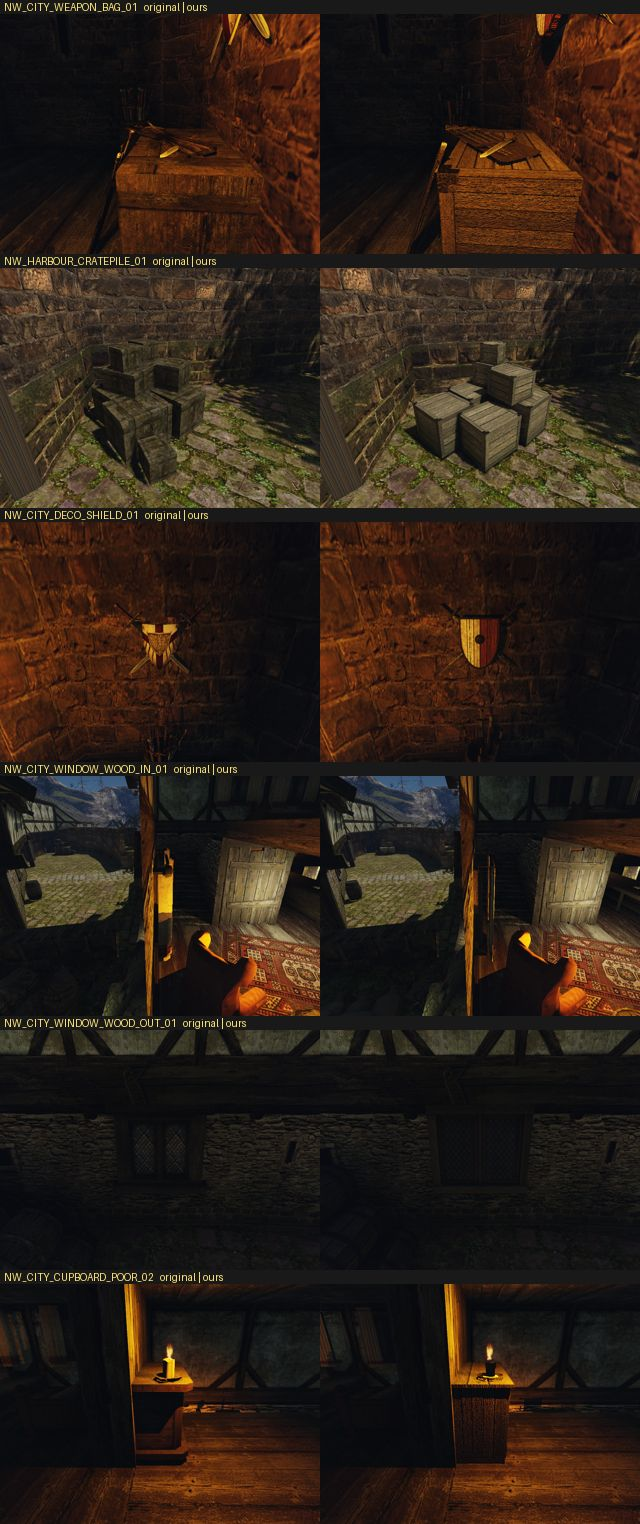
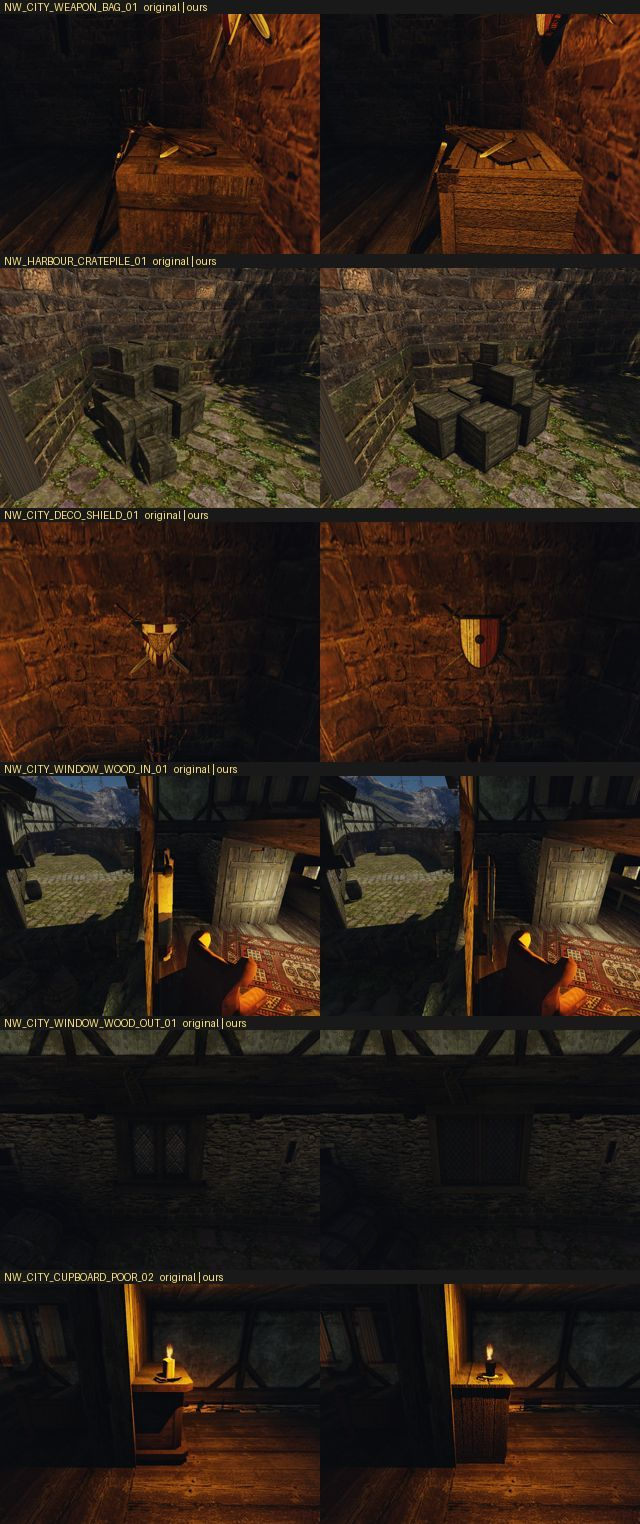
content: mossy plank tile for the market crate pile
Own image_gen tile (mesh3d-market-tile-wood-mossy) for the crate pile's
planks and frames; algae noise off, no contrast stretch. The zone target
is picked from the in-game look: own materials get a bluish sky
reflection the originals don't, so blue is lowered by the measured shift.
Two attempts on Ryzen; report, sheets and journal updated.

Changed region(s): [[0.6562, 0.2159, 0.875, 0.3084]]

diff --git a/scripts/content/mesh3d/market_targets.py b/scripts/content/mesh3d/market_targets.py
@@ -51,7 +51,8 @@ TARGETS = [
      "zones": [zone("OWN_PROP_LEATHER", "UNDEF", "leather and cloth wrapping"), STEEL,
                zone("OWN_PROP_WOOD_HAFT", "WOOD", "hilts, grips and hafts")]},
     {"id": "crate-pile", "visual": "NW_HARBOUR_CRATEPILE_01.MRM", "budget_tris": 6000,
-     "zones": [WOOD_PLANK, zone("OWN_PROP_WOOD_BRACE", "WOOD", "crate frame battens"), IRON]},
+     "zones": [zone("OWN_PROP_WOOD_MOSSY", "WOOD", "mossy grimy crate planks"),
+               zone("OWN_PROP_WOOD_MOSSY_BRACE", "WOOD", "mossy grimy crate frame battens"), IRON]},
     {"id": "deco-shield", "visual": "NW_CITY_DECO_SHIELD_01.MRM", "budget_tris": 1500,
      "zones": [zone("OWN_PROP_WOOD_PAINTED", "WOOD", "shield boards painted dull red"),
                zone("OWN_PROP_WOOD_PAINTED_LIGHT", "WOOD", "shield boards painted off-white"), IRON, STEEL,

diff --git a/scripts/content/mesh3d/blender/crate_pile.py b/scripts/content/mesh3d/blender/crate_pile.py
@@ -26,7 +26,7 @@ cfg, out = args()
 goal, lo, hi = load_goal(cfg)
 rng = np.random.default_rng(cfg.get("seed", 1))
 keys = [z["key"] for z in goal["zones"]]
-PLANK, BRACE, IRON = (keys.index(k) for k in ("OWN_PROP_WOOD_PLANK", "OWN_PROP_WOOD_BRACE", "OWN_PROP_IRON_BAND"))
+PLANK, BRACE, IRON = (keys.index(k) for k in ("OWN_PROP_WOOD_MOSSY", "OWN_PROP_WOOD_MOSSY_BRACE", "OWN_PROP_IRON_BAND"))
 tile = cfg.get("stave_tile", 0.38)
 P = Parts(rng, tile / cfg.get("planks_per_tile", 4))
 fw, bt = cfg.get("frame", 0.08), cfg.get("batten", 0.022)

diff --git a/reports/content/2026-10-market-set/README.md b/reports/content/2026-10-market-set/README.md
@@ -33,7 +33,7 @@
 |---|---|---:|---|---|---|
 | тележка | `NW_CITY_CART_01` | 40 / 2 | 760 → 1528 (3000) | 2048, 26% | дощатое дно со щелями, перила на стойках, колёса со спицами, ступицей и шиной, оглобли на земле, железные уголки |
 | группа бочек | `NW_HARBOUR_BARRELGROUP_01` | 55 / 6 | 660 → 5760 (6000) | 2048, 22% | пирамида 5-4-3 лежащих бочек: клёпки отдельными частями, четыре обруча, утопленные днища, клинья |
-| куча ящиков | `NW_HARBOUR_CRATEPILE_01` | 132 / 5 | 135 → 5112 (6000) | 2048, 20% | девять ящиков разного размера, рамки, утопленные доски, уголки, тёмное дерево с мхом снизу |
+| куча ящиков | `NW_HARBOUR_CRATEPILE_01` | 132 / 5 | 135 → 5112 (6000) | 2048, 20% | девять ящиков разного размера, рамки, утопленные доски, уголки, тёмное замшелое дерево из своей плитки |
 | ковёр | `NW_CITY_CARPET_03` | 32 / 2 | 50 → 480 (600) | 2048, 76% | свой рисунок (вид сверху своего концепта), бахрома, загнутый угол |
 | канаты | `NW_HARBOUR_ROPE_01` | 47 / 6 | 177 → 3880 (4000) | 2048, 14% | две бухты каната по спирали, вторая лежит на первой, концы |
 | поленница | `OC_FIREWOOD_V3` | 12 / 3 | 438 → 1968 (3000) | 2048, 28% | 90 поленьев (кругляк, половинки, четвертинки), кора, торцы с кольцами вокруг сердцевины |
@@ -61,7 +61,7 @@
 - **Снимки оригиналов** сделаны на Ryzen сценарием с камерой у каждой копии в районе. Для этого `scripts/meshes/world-meshes.cpp` дописали в рабочей копии так, чтобы он выводил позиции; в репозиторий эта правка не вошла.
 - **Концепты.** 41 изображение `image_gen`, 17 предметов. Брифы — только текст: части, их число, размеры в метрах и общий абзац стиля. Каждый предмет — отдельный тред Codex в пустой папке. Регистрация — `market_concepts.py` (записи `mesh3d-market-<item>-v1-<вид>`), исходники сверены с копией на dev-ubuntu.
 - **Плитки** (`market_tiles.py`, спецификации `market-tiles-*.json`):
-  - семь новых плиток своим `image_gen` по тексту: мешковина, парусина, канат, мех, кора, торец полена, кожа (записи `mesh3d-market-tile-*`);
+  - восемь новых плиток своим `image_gen` по тексту: мешковина, парусина, канат, мех, кора, торец полена, кожа, замшелая доска кучи ящиков (записи `mesh3d-market-tile-*`);
   - процедурные воск, стекло и кость без `image_gen`;
   - дерево и железо — копии плиток пилота;
   - панель ковра — прямоугольник, вырезанный из нашего же концепта.
@@ -113,13 +113,46 @@
 
 ![В игре: оригинал, до доработки, после](rework-game.jpg)
 
+## Замшелая плитка для кучи ящиков
+
+21 октября. После двух проходов настроек куча ящиков оставалась чище оригинала: мох был пятнами шума атласа поверх чистой плитки дерева. Теперь мох и грязь нарисованы в самой плитке.
+
+- **Плитка.** Свой `image_gen` по тексту в отдельном треде Codex в пустой папке, как у остальных плиток рынка. Бриф: лицевая сторона старой доски ящика из мягкой древесины, 38 × 38 см, волокно вертикально, без стыков (доски даёт геометрия, тёмные швы — запекание). Тёмное мокрое дерево с почти чёрными потёками вдоль волокна, оливковая плёнка водорослей и плоский мох примерно на половине поверхности, чёрные точки плесени, ровный свет без теней. Из двух вариантов взят первый. В масштабе игры, около 30 пикселей на плитку, у него остаются тёмные и оливковые пятна: разброс log-яркости 0,99. Второй сливается в ровный зелёный (0,88). Запись реестра — `mesh3d-market-tile-wood-mossy`, исходник сохранён и скопирован на dev-ubuntu. Шероховатость 0,97: мох матовый.
+- **Зоны.** Доски — `OWN_PROP_WOOD_MOSSY`, рамки — `OWN_PROP_WOOD_MOSSY_BRACE`: копия той же плитки со своей целью. Шум водорослей при запекании выключен (`algae` 0). Растяжка контраста снята (1,3 → 1,0): разброс log-яркости у новой плитки и так в 1,6 раза больше, чем у прежней (0,99 против 0,63). Сырость снизу и слабые светлые кромки остались.
+
+![Плитка: два варианта image_gen, плитка после швов, модель с атласом](mossy-tile.jpg)
+
+На рендере Blender под ярким солнцем доски желтее, чем в игре: цель зоны занижает синий под отражение неба в движке (ниже).
+
+**Почему куча была серой.** У наших материалов есть ORM, и движок освещает их по PBR-пути (`shader/lighting/ambient_light.frag`): поверх рассеянного света добавляется отражение неба `reflectedSky × materialEnvBrdf` с F0 = 0,04. У оригинальных материалов этого отражения нет. При альбедо около 0,02 оно сравнимо с рассеянным светом и голубое: серит дерево и высветляет верхние грани. Поэтому затемнение альбедо в прошлых проходах почти не помогало. Шероховатость 0,97 вместо прежних 0,82 его уменьшает — верхние грани 0,082 → 0,060, — но не убирает.
+
+**Цель зоны** подобрана по виду в игре, а не по среднему текстуры. Грани ящиков оригинала на кадре стенда (линейный RGB): медиана яркости 0,025, G/R 0,80, B/R 0,43, зелёных пикселей (G > R) меньше 1%. Мшистым оригинал выглядит за счёт оливково-бурого цвета и тёмных потёков, а не зелени.
+- Попытка 1: оттенок цели (1; 0,80; 0,41), яркость 0,018 у досок и 0,013 у рамок. Яркость совпала, но B/R 0,49: отражение неба добавило синего, и мох читался серым.
+- Попытка 2: B/R цели 0,34, ниже на измеренный сдвиг 0,07. Цель досок — 0,0222 / 0,0178 / 0,0076, рамок — 0,0161 / 0,0129 / 0,0055.
+
+| Грани ящиков в игре, линейный RGB | оригинал | проход 2 | попытка 1 | попытка 2 |
+|---|---:|---:|---:|---:|
+| медиана яркости | 0,025 | 0,043 | 0,028 | 0,028 |
+| G/R, медиана | 0,80 | 0,82 | 0,80 | 0,80 |
+| B/R, медиана | 0,43 | 0,46 | 0,49 | 0,44 |
+| передняя грань | 0,031 | 0,035 | 0,028 | 0,028 |
+| боковая грань | 0,033 | 0,040 | 0,031 | 0,031 |
+| верх (у оригинала другой ящик) | 0,031 | 0,082 | 0,060 | 0,059 |
+
+Атлас запечён на Ryzen (`gq batch`), стенд `own-mesh-market` на Ryzen с пересобранным корнем набора: заменены все 21 меш, ни один оригинал не открыт, используются 42 своих ключа.
+
+![В игре: оригинал, проход 2, две попытки с замшелой плиткой](mossy-game.jpg)
+
 ## Что осталось слабым
 
 - **Бочка с оружием.** Рукояти одного тёмного цвета, у оригинала они пёстрые.
 - **Свеча** — самый тяжёлый предмет на экземпляр: 2660 треугольников. В мире 157 свечей, это около 420 тыс. треугольников против 19 тыс. у оригинала.
 - **Голова волка** на стенде висит в тёмном углу: глаза и нос видны только на рендере.
 - **Канаты.** Сечение пятигранное, на атласе около 2 пикселей на сантиметр: пряди с близи размыты. Бухты ниже bbox оригинала на 11 см.
-- **Куча ящиков** после двух проходов всё ещё чище оригинала: мох у нас — пятна шума атласа поверх чистой плитки. Дальше нужна своя замшелая плитка дерева, а не новые настройки.
+- **Куча ящиков** теперь тёмная и оливковая, как оригинал, мох и грязь — в своей плитке. Осталось три расхождения:
+  - верхние грани вдвое светлее оригинала — это отражение неба, которое движок добавляет только нашим материалам;
+  - мох мелкий: пятна 2–10 см на досках по 9,5 см, и с расстояния стенда он читается как пёстрая грязь, а у оригинала потёки нарисованы крупно, на всю грань;
+  - раскладка ящиков не совпадает: у оригинала куча прижата к левой стене.
 - **Мешки** короче bbox оригинала в глубину на 40 см.
 - **Окно с улицы:** стекло тёмное, как у замера оригинала, и переплёт издали не читается.
 - Кадры **указателя и прилавка** на стенде мало что показывают: копии стоят у фонарного столба и в тёмной лавке.

diff --git a/docs/own-content.md b/docs/own-content.md
@@ -133,6 +133,8 @@
 
 ## План и журнал
 
+**2026-10-21 — набор рынка: замшелая плитка для кучи ящиков.** После двух проходов настроек куча была чище оригинала: мох был пятнами шума атласа. Теперь доски и рамки (`OWN_PROP_WOOD_MOSSY`, `OWN_PROP_WOOD_MOSSY_BRACE`) запекаются из своей плитки `image_gen` по тексту: тёмная мокрая доска с оливковым мхом, запись `mesh3d-market-tile-wood-mossy`, шероховатость 0,97. Шум водорослей выключен. Серыми прежние проходы делало отражение неба, которое движок добавляет материалам с ORM (`ambient_light.frag`), а оригиналам нет. Поэтому цель зоны подобрана по кадру в игре: синий занижен на измеренный сдвиг. После двух попыток на Ryzen медиана яркости граней 0,028 против 0,025 у оригинала, G/R 0,80 и B/R 0,44 против 0,80 и 0,43. Заменены все 21 меш, оригиналы не открываются. Осталось: верхние грани вдвое светлее оригинала, мох мелкий для расстояния стенда. [Отчёт](../reports/content/2026-10-market-set/README.md#замшелая-плитка-для-кучи-ящиков).
+
 **2026-10-21 — набор рынка: доработаны пять слабых предметов.** Просьба пользователя до решения о включении.
 - Бочка с оружием: крупные рукояти с навершиями, топор с широким лезвием, копьё с листовым наконечником.
 - Лампа: крупное стекло.
